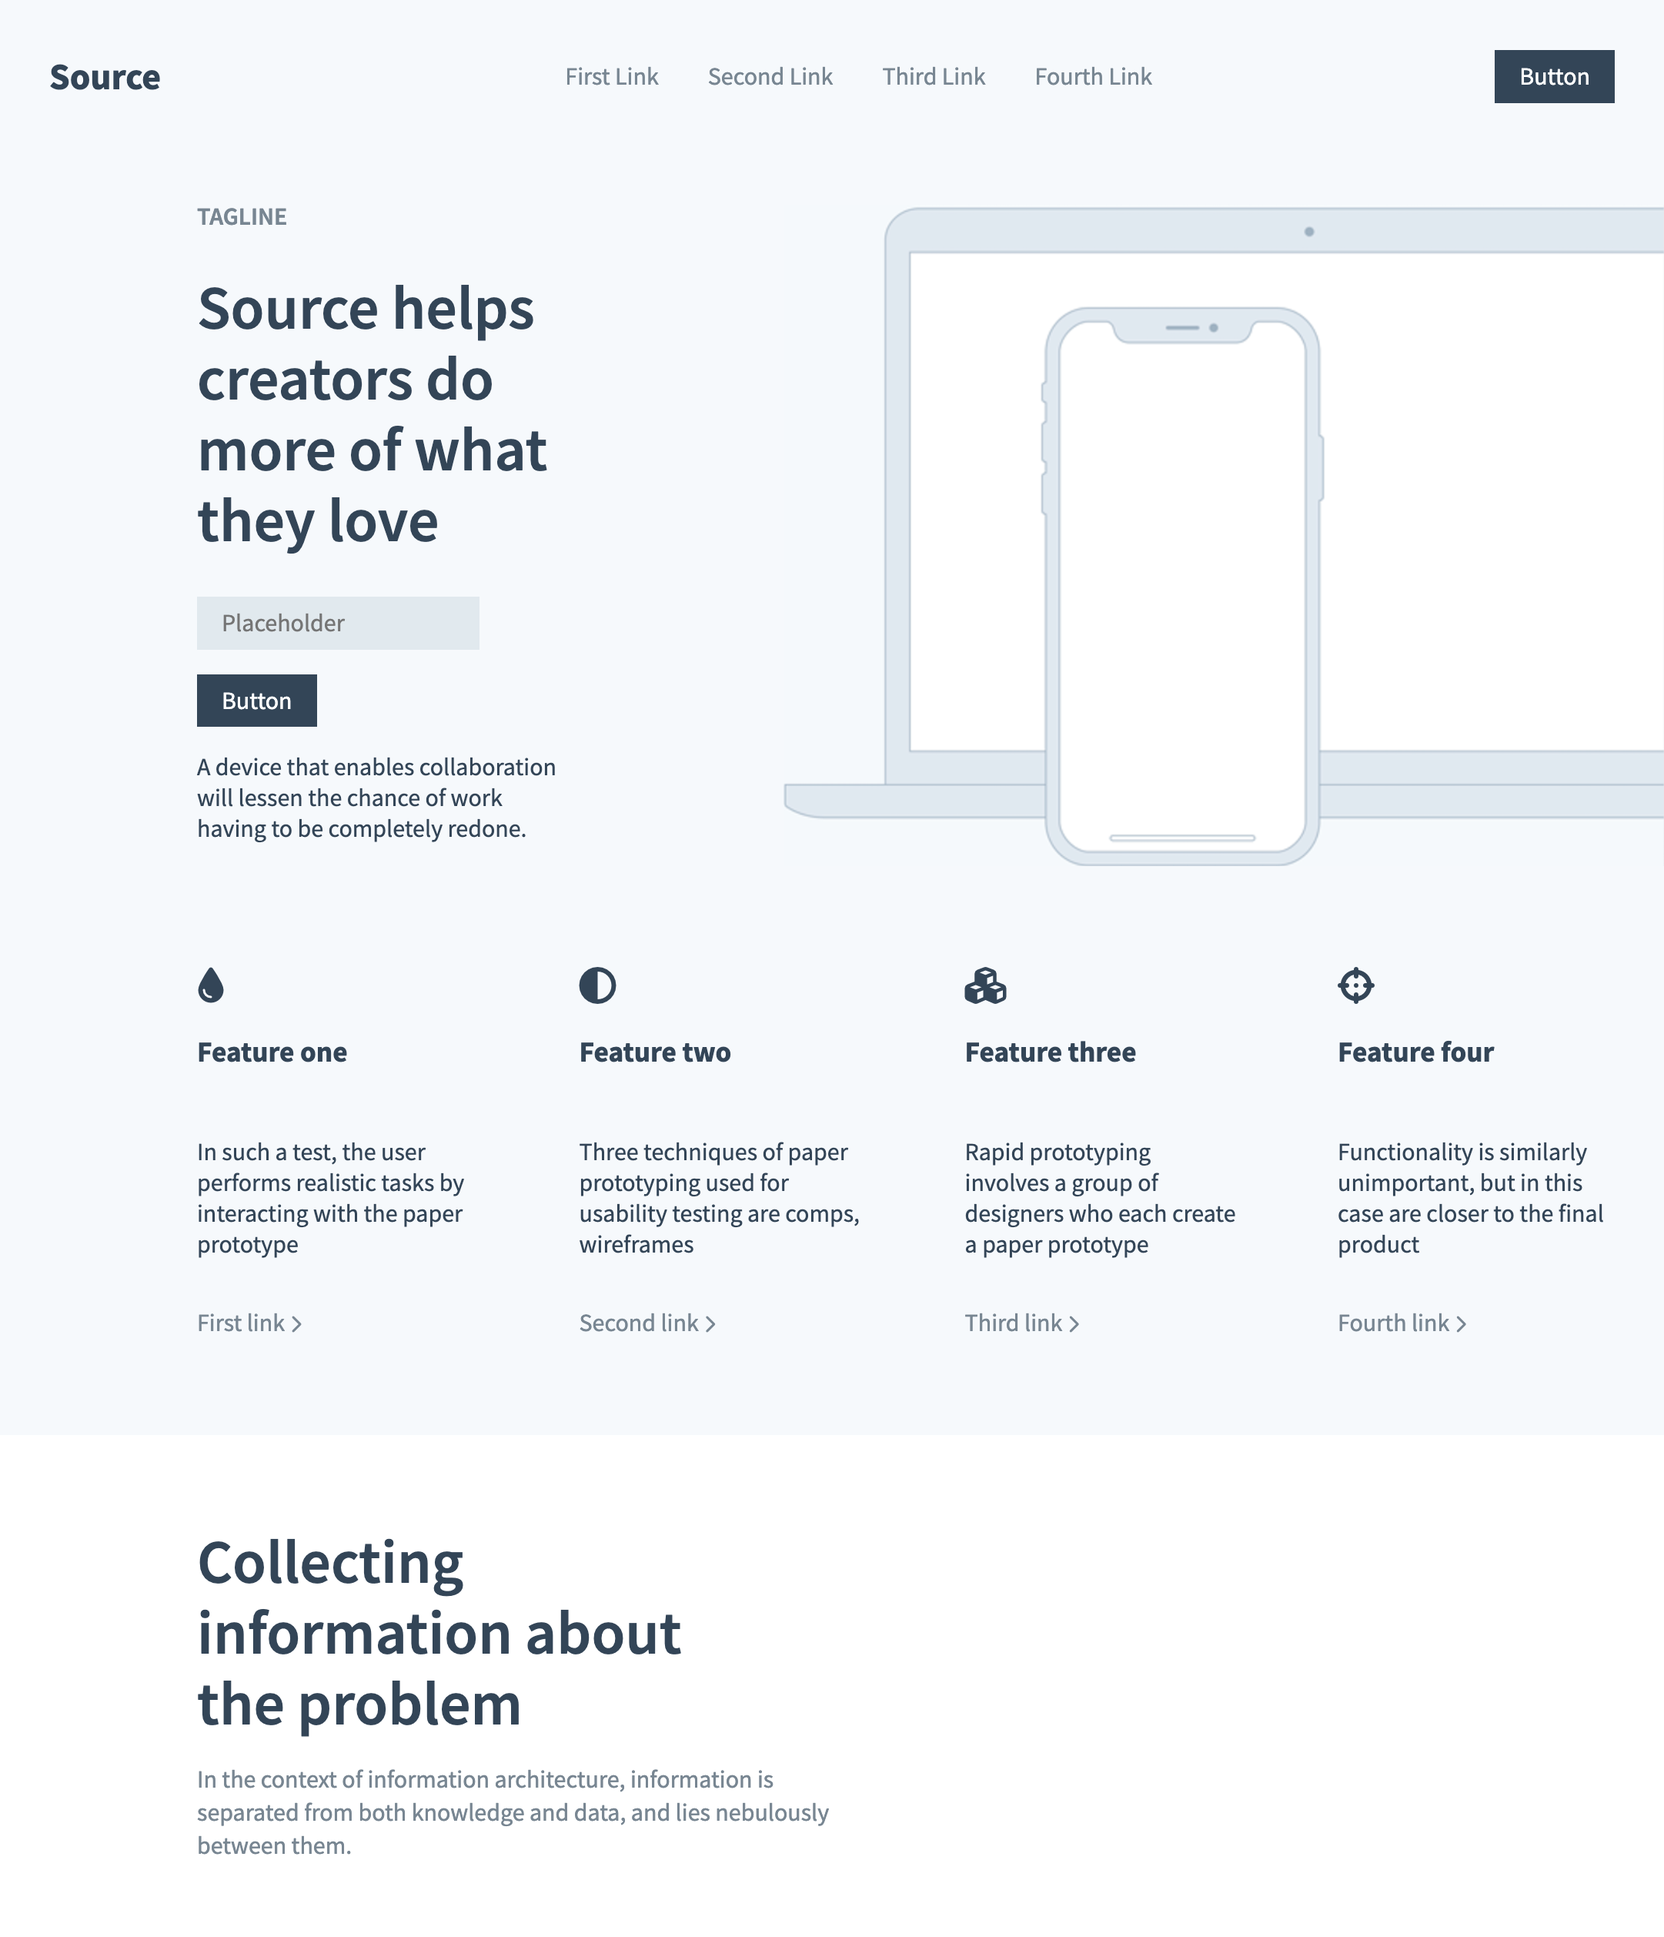
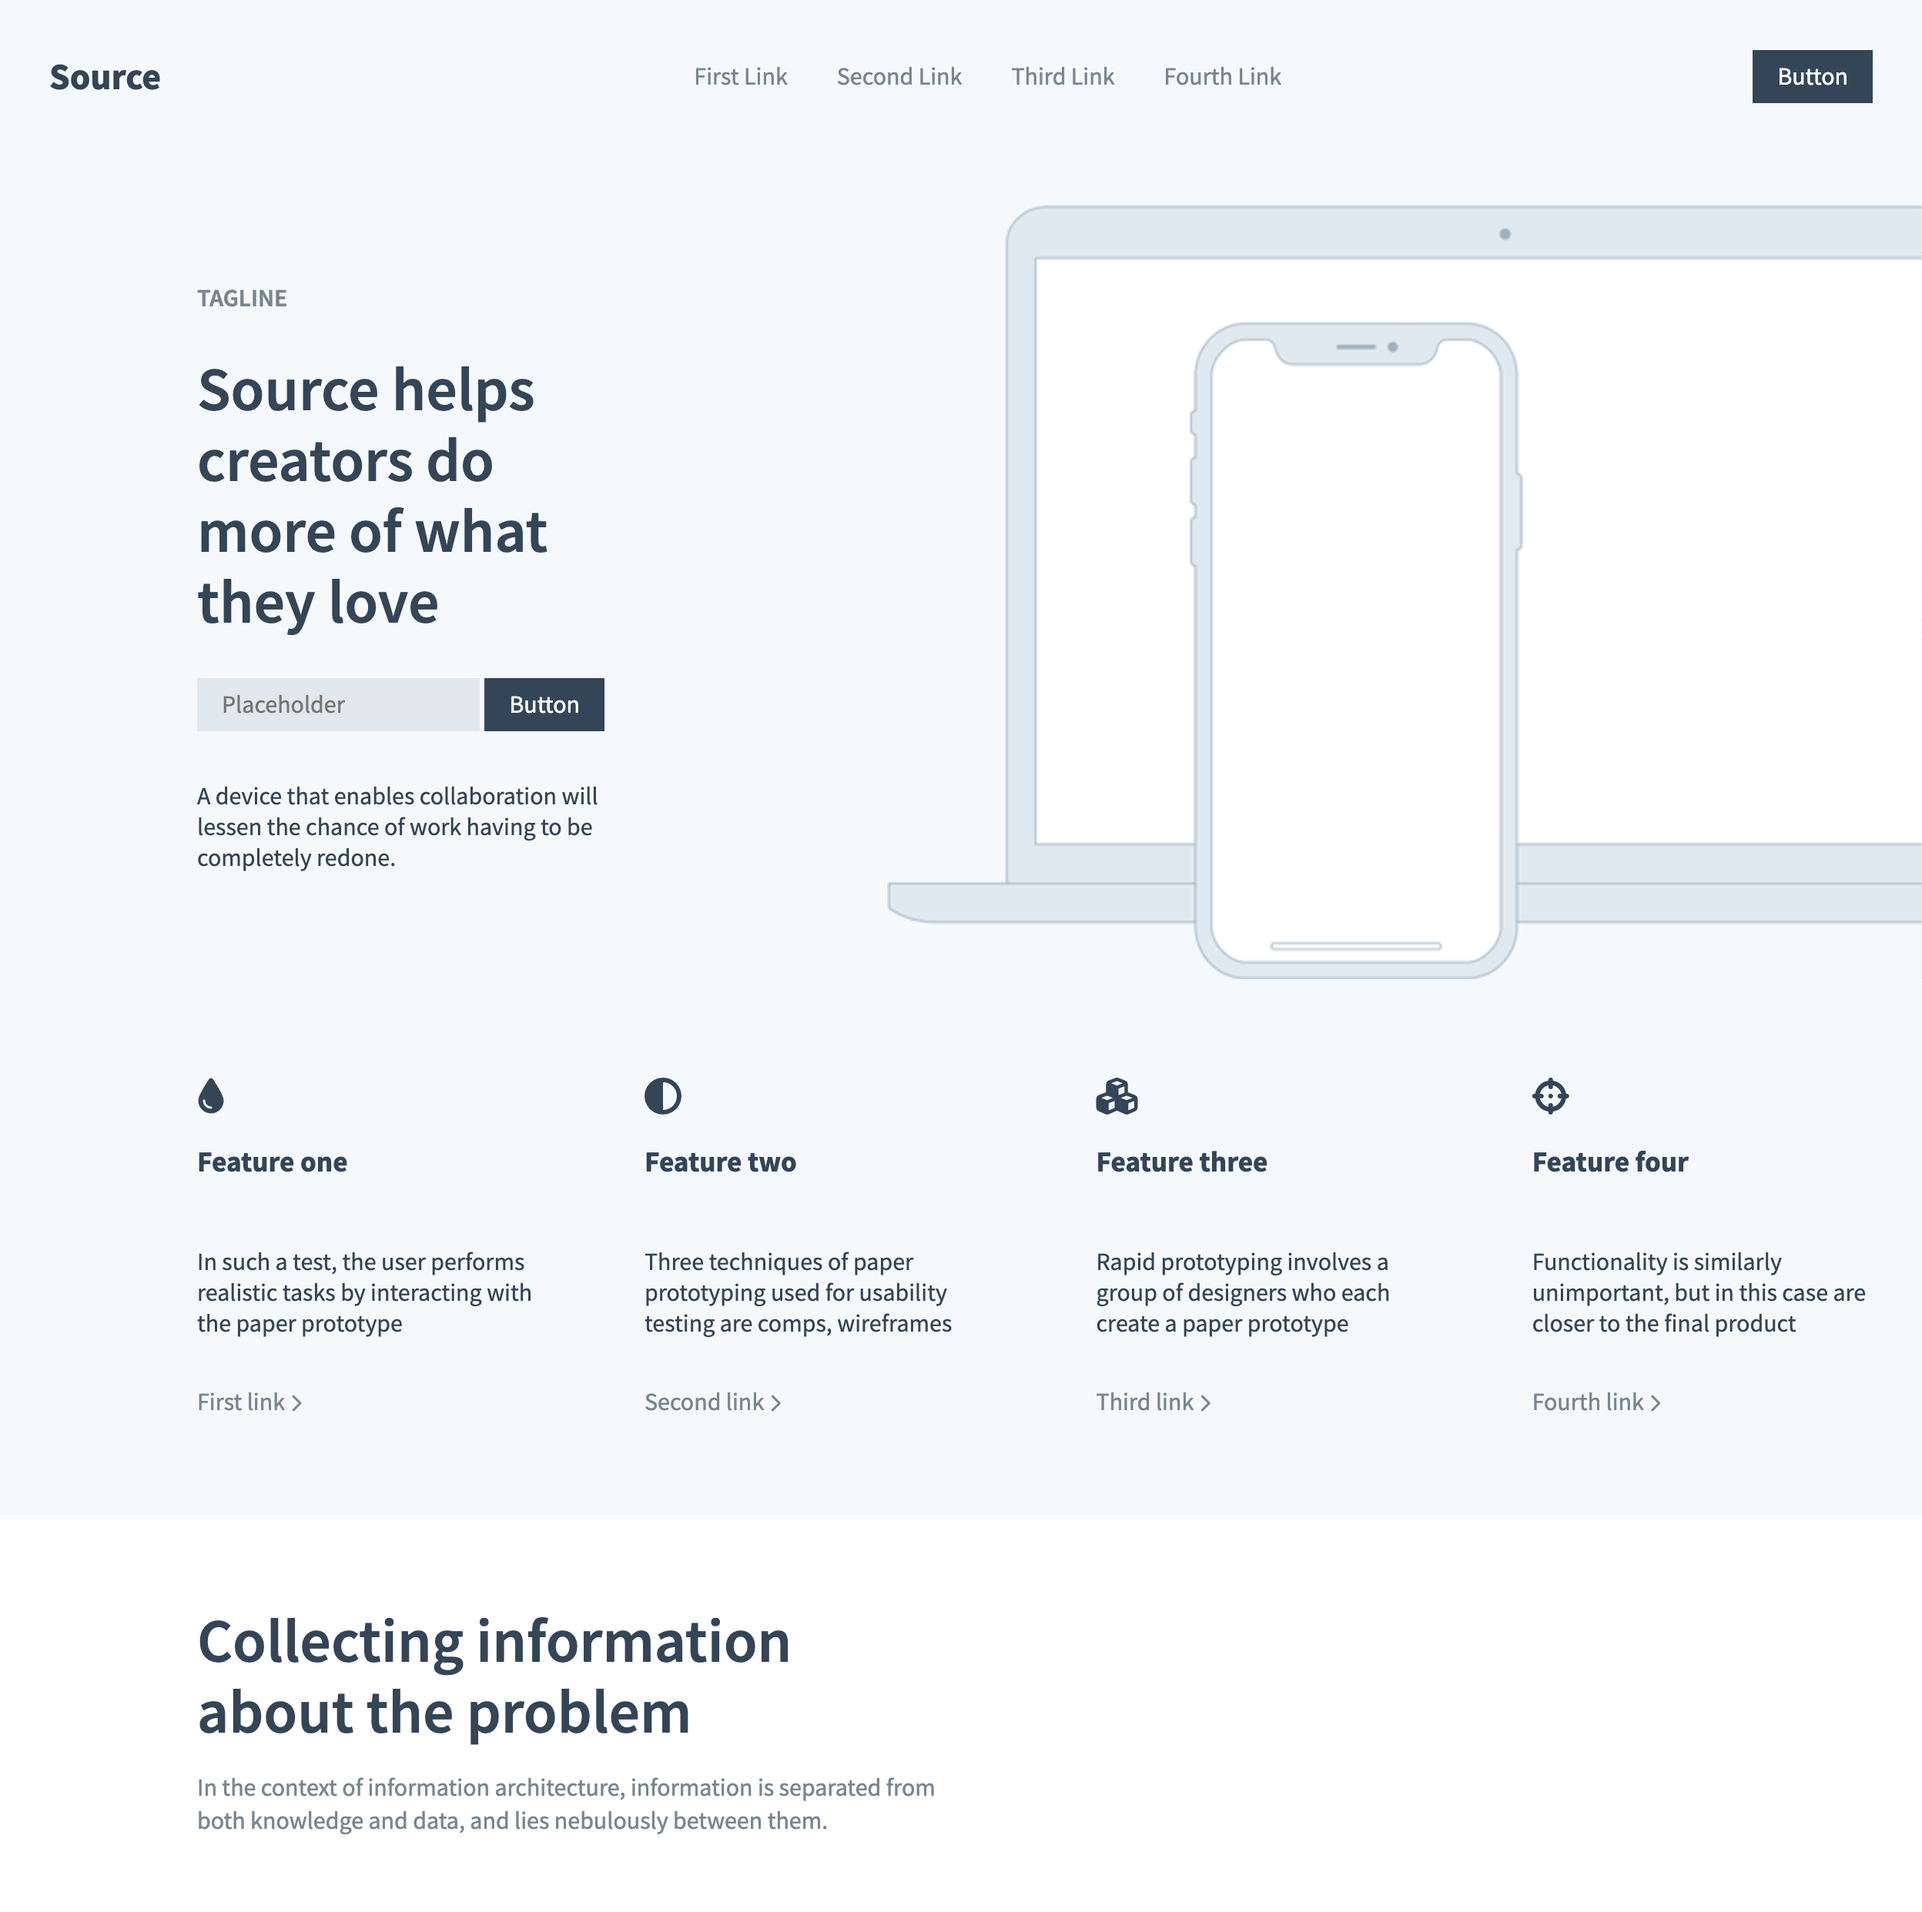
Edit README.md

diff --git a/README.md b/README.md
@@ -1,4 +1,11 @@
 # Source Layout
 Simple responsive web layout using vanilla CSS.
 
-![Source Responsive Layout](./assets/source-layout.png "Responsive Web Layout")
+![Desktop Version](./assets/source-layout.png "Responsive Web Layout - Desktop")
+
+![Mobile Version](./assets/source-layout-mobile.png "Responsive Web Layout - Mobile")
+
+### Credits
+
+Design by Max Schneider [Source Wireframes](https://dribbble.com/shots/8718928-Source-Wireframes)
+
